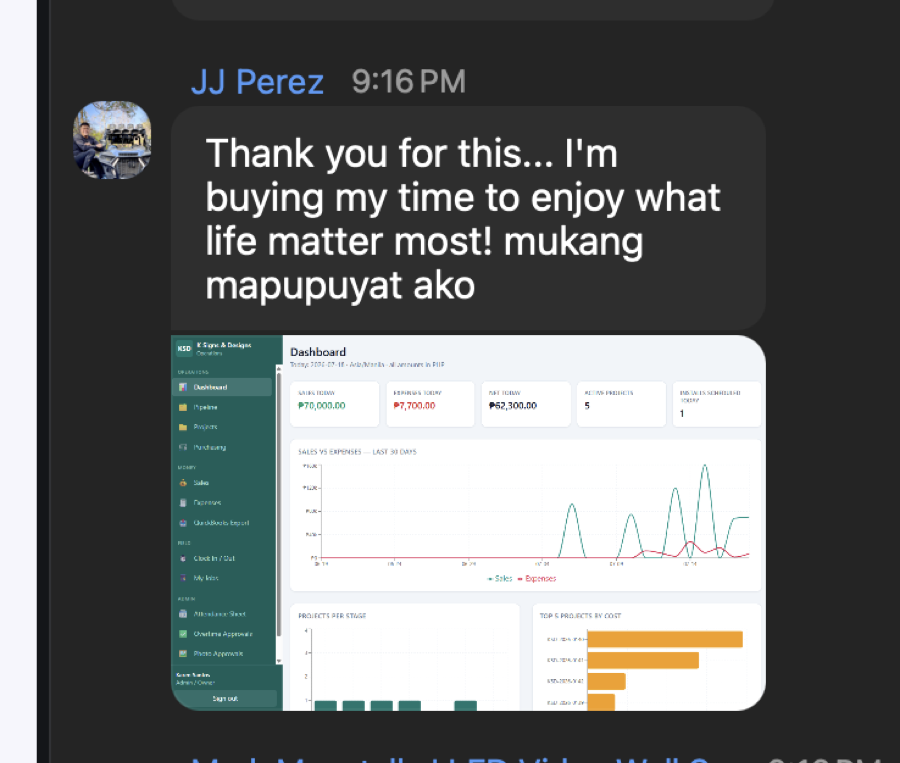
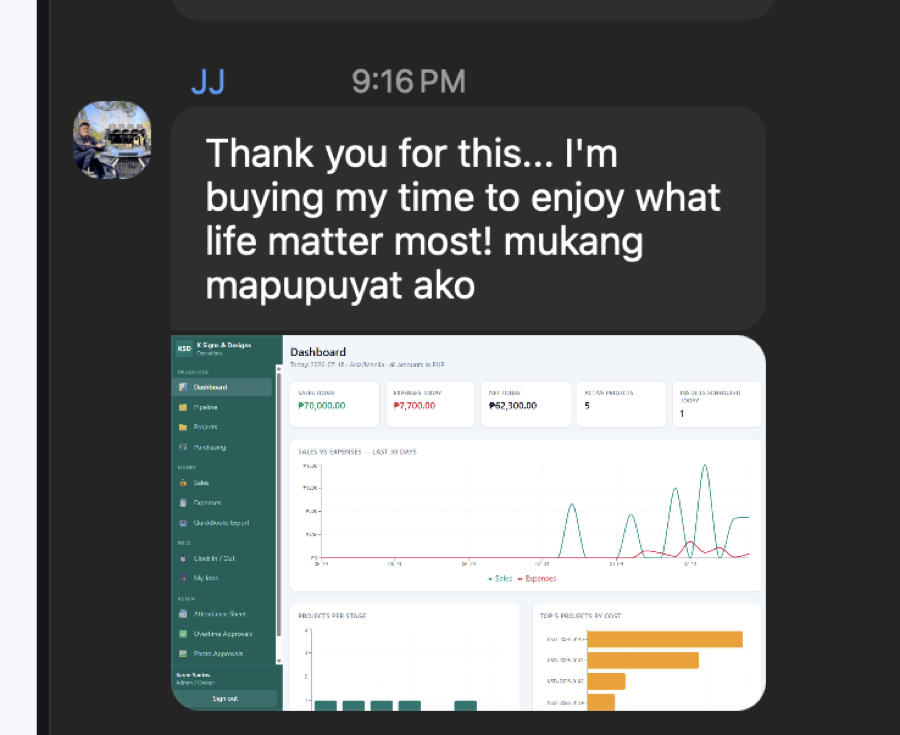
Make Variant D the site default; keep the original design as a variant
Per Kyle: the ₱500K-reframe page is now the main website. The old
homepage is NOT deleted — it stays fully intact as the rollback path:
- app/page.tsx fallback variant is now 'd' (one-line revert back to
  'control' restores the old site); ?preview=control still serves it
- B/C test dials keep working (carve test bands out of the D default);
  the D dial is retired and its beacon removed so default traffic
  doesn't double-log page_views
- HomeSplitCard restyled: D marked "site default", original marked
  "rollback / preview-only", D input dropped
- Default metadata/OG now message-match the D hero

Also per Kyle:
- Sample-card annotation: "Traditional Devs charge minimum ₱500K+ for a
  system like this..."
- Proof-wall testimonials: last names covered in the images (Perez,
  Barrientos incl. the form-placeholder repeat, Buenavista; proof-1's
  cut-off name strip cropped off). proof-2/3/5 were first-name only.

diff --git a/components/HomeSplitCard.tsx b/components/HomeSplitCard.tsx
@@ -2,18 +2,18 @@
 
 /**
  * Homepage split-test control (GHL-style) — shown on the webinar funnel's
- * admin page. FOUR variants:
- *   - CONTROL: the live homepage (legacy "₱100K/month outcome" hero)
- *   - VARIATION B: conversion-first redesign (bento grids, terminal, sticky CTA)
- *   - VARIATION C: competition-killer informed by the aibuilderssummit.live
- *     audit (outcome-first hero, itemized bonus stack, sharpened apps moat)
- *   - VARIATION D: ₱500K-quote hero reframe for the ₱1,997 price (above the
- *     fold only; below the fold = control)
+ * admin page. Since 2026-07-24 VARIATION D (₱500K-quote reframe) IS THE SITE
+ * DEFAULT; everyone not carved into a test band sees D:
+ *   - VARIATION D: the live homepage (no dial needed — it's the default)
+ *   - ORIGINAL: the previous homepage ("₱100K/month outcome" hero), kept
+ *     intact for rollback — preview via ?preview=control; reverting the whole
+ *     site = one-line fallback change in app/page.tsx
+ *   - VARIATION B / C: test variants, still dialable
  *
- * Three traffic dials, saved to funnel config:
+ * Two traffic dials, saved to funnel config:
  *   homeVariantPct  → Variation B
  *   homeVariantCPct → Variation C
- *   homeVariantDPct → Variation D
+ * (homeVariantDPct is retired — the page router ignores it.)
  *
  * Bucketing is additive (raising a later dial doesn't reshuffle anyone
  * already bucketed earlier). Combined cap of 100; warn past it.
@@ -42,25 +42,22 @@ export function HomeSplitCard({
 }) {
   const initialB = clampPct(Number(funnel.config.homeVariantPct) || 0);
   const initialC = clampPct(Number(funnel.config.homeVariantCPct) || 0);
-  const initialD = clampPct(Number(funnel.config.homeVariantDPct) || 0);
   const [pctB, setPctB] = useState(String(initialB));
   const [pctC, setPctC] = useState(String(initialC));
-  const [pctD, setPctD] = useState(String(initialD));
   const [saved, setSaved] = useState(false);
   const [pending, startTransition] = useTransition();
 
   const nB = clampPct(Number(pctB));
   const nC = clampPct(Number(pctC));
-  const nD = clampPct(Number(pctD));
-  const sum = nB + nC + nD;
+  const sum = nB + nC;
   const overCap = sum > 100;
-  const nControl = Math.max(0, 100 - Math.min(100, sum));
-  const live = nB > 0 || nC > 0 || nD > 0;
+  const nDefault = Math.max(0, 100 - Math.min(100, sum));
+  const live = nB > 0 || nC > 0;
 
   function save() {
     startTransition(async () => {
       await onSave(funnel.id, {
-        config: { ...funnel.config, homeVariantPct: nB, homeVariantCPct: nC, homeVariantDPct: nD },
+        config: { ...funnel.config, homeVariantPct: nB, homeVariantCPct: nC },
       });
       setSaved(true);
       setTimeout(() => setSaved(false), 1800);
@@ -78,27 +75,23 @@ export function HomeSplitCard({
               : 'border-slate-200 bg-slate-100 text-slate-500'
           }`}
         >
-          {live ? `Running · B ${nB}% · C ${nC}% · D ${nD}% · Control ${nControl}%` : 'Off · 100% control'}
+          {live ? `Testing · B ${nB}% · C ${nC}% · D (default) ${nDefault}%` : 'Off · 100% Variation D (site default)'}
         </span>
       </div>
 
       <div className="grid gap-3 sm:grid-cols-2 lg:grid-cols-4">
-        <div className="rounded-xl border border-slate-200 bg-slate-50/50 p-4">
-          <div className="text-[11px] font-semibold uppercase tracking-wider text-slate-500">
-            🏁 Control
+        <div className="rounded-xl border border-amber-300 bg-amber-50/60 p-4">
+          <div className="text-[11px] font-semibold uppercase tracking-wider text-amber-700">
+            🔨 Variation D — site default
           </div>
           <div className="mt-1 text-sm text-slate-700">
-            Current homepage (₱100K/month outcome hero)
+            ₱500K-quote reframe — build-it-yourself hero, clickable sample app, ₱1,997 CTA
           </div>
           <div className="mt-2 flex items-baseline justify-between">
-            <a
-              href="/?preview=control"
-              target="_blank"
-              className="text-xs text-cyan-600 hover:underline"
-            >
-              Preview ↗
+            <a href="/" target="_blank" className="text-xs text-amber-600 hover:underline">
+              View live ↗
             </a>
-            <span className="text-lg font-semibold text-slate-900">{nControl}%</span>
+            <span className="text-lg font-semibold text-slate-900">{nDefault}%</span>
           </div>
         </div>
         <div className="rounded-xl border border-cyan-200 bg-cyan-50/40 p-4">
@@ -138,22 +131,22 @@ export function HomeSplitCard({
             <span className="text-lg font-semibold text-slate-900">{nC}%</span>
           </div>
         </div>
-        <div className="rounded-xl border border-amber-200 bg-amber-50/40 p-4">
-          <div className="text-[11px] font-semibold uppercase tracking-wider text-amber-700">
-            🔨 Variation D
+        <div className="rounded-xl border border-slate-200 bg-slate-50/50 p-4">
+          <div className="text-[11px] font-semibold uppercase tracking-wider text-slate-500">
+            🏁 Original (rollback)
           </div>
           <div className="mt-1 text-sm text-slate-700">
-            ₱500K-quote reframe — build-it-yourself hero, clickable sample app, ₱1,997 CTA
+            Previous homepage (₱100K/month outcome hero) — kept intact in case we need to revert
           </div>
           <div className="mt-2 flex items-baseline justify-between">
             <a
-              href="/?preview=d"
+              href="/?preview=control"
               target="_blank"
-              className="text-xs text-amber-600 hover:underline"
+              className="text-xs text-cyan-600 hover:underline"
             >
               Preview ↗
             </a>
-            <span className="text-lg font-semibold text-slate-900">{nD}%</span>
+            <span className="text-lg font-semibold text-slate-400">preview-only</span>
           </div>
         </div>
       </div>
@@ -177,15 +170,6 @@ export function HomeSplitCard({
             onChange={(e) => setPctC(e.target.value)}
           />
         </div>
-        <div>
-          <label className="label">Variation D traffic %</label>
-          <input
-            className="input w-28"
-            inputMode="numeric"
-            value={pctD}
-            onChange={(e) => setPctD(e.target.value)}
-          />
-        </div>
         <button
           onClick={save}
           disabled={pending || overCap}
@@ -195,17 +179,18 @@ export function HomeSplitCard({
         </button>
         {overCap && (
           <span className="text-[11px] font-medium text-rose-600">
-            B + C + D = {sum}% &gt; 100. Lower one before saving.
+            B + C = {sum}% &gt; 100. Lower one before saving.
           </span>
         )}
       </div>
       <p className="text-[11px] leading-relaxed text-slate-400">
-        Visitors are bucketed once (sticky cookie) — raising a % adds new people to that variation
-        without reshuffling anyone. Set both to 0 to pause and serve 100% control. Variation views
-        log as <code className="rounded bg-slate-100 px-1">/__ab/home-b</code>,{' '}
-        <code className="rounded bg-slate-100 px-1">/__ab/home-c</code> and{' '}
-        <code className="rounded bg-slate-100 px-1">/__ab/home-d</code> page-views so you can
-        compare traffic.
+        Variation D is the site default — everyone not carved into a B/C test band sees it, no
+        dial needed. Visitors are bucketed once (sticky cookie) — raising a % adds new people to
+        that variation without reshuffling anyone. Set both to 0 to serve 100% Variation D. Test
+        views log as <code className="rounded bg-slate-100 px-1">/__ab/home-b</code> and{' '}
+        <code className="rounded bg-slate-100 px-1">/__ab/home-c</code> page-views; the old
+        design stays preview-only at{' '}
+        <code className="rounded bg-slate-100 px-1">/?preview=control</code>.
       </p>
     </section>
   );

diff --git a/app/page.tsx b/app/page.tsx
@@ -15,26 +15,22 @@ import { getFunnels, getSettings, getUpcomingCheckoutSessions } from '@/lib/db';
 export const dynamic = 'force-dynamic';
 
 /**
- * Homepage split test (GHL-style). Four variants:
- *   - control (components/OptInPage.tsx) — the original
+ * Homepage variants. Since 2026-07-24, VARIANT D IS THE SITE DEFAULT — the
+ * ₱500K-quote reframe (components/variant-d/OptInPageD.tsx) is what every
+ * visitor sees at "/". The other designs are kept intact as variants:
+ *   - control (components/OptInPage.tsx) — the ORIGINAL design, preserved for
+ *     rollback. View via ?preview=control. To revert the whole site to it,
+ *     change the `variant` fallback below from 'd' back to 'control'.
  *   - b (components/variant-b/OptInPageB.tsx) — conversion-first rebuild
- *   - c (components/variant-c/OptInPageC.tsx) — competition-killer informed
- *     by the aibuilderssummit.live audit (outcome-first hero, itemized
- *     bonus, sharpened apps moat)
- *   - d (components/variant-d/OptInPageD.tsx) — ₱500K-quote hero reframe for
- *     the ₱1,997 price point (above-the-fold only; below the fold = control)
+ *   - c (components/variant-c/OptInPageC.tsx) — competition-killer
  *
  * Assignment:
  *   - middleware gives every visitor a sticky random roll 0-99 (bl_ab_roll);
- *   - the webinar funnel exposes THREE traffic dials in admin → Funnels:
- *       homeVariantPct  → traffic % for variant B
- *       homeVariantCPct → traffic % for variant C
- *       homeVariantDPct → traffic % for variant D
- *   - bucketing: roll < pctB → B, else roll < pctB+pctC → C, else
- *     roll < pctB+pctC+pctD → D, else control. Additive so raising a later
- *     dial doesn't reshuffle anyone already bucketed into an earlier variant.
+ *   - admin → Funnels dials homeVariantPct (B) / homeVariantCPct (C) can
+ *     still carve test traffic: roll < pctB → B, else roll < pctB+pctC → C,
+ *     else D (the default). homeVariantDPct is now inert — D needs no dial.
  *   - ?preview=b / ?preview=c / ?preview=d / ?preview=control force a variant
- *     for preview (no cookie change, works even at 0% live traffic).
+ *     for preview (no cookie change).
  */
 type HomeVariant = 'control' | 'b' | 'c' | 'd';
 
@@ -43,31 +39,26 @@ type HomeVariant = 'control' | 'b' | 'c' | 'd';
 async function resolveVariant(preview?: string): Promise<HomeVariant> {
   let pctB = 0;
   let pctC = 0;
-  let pctD = 0;
   try {
     const funnels = await getFunnels();
     const cfg = funnels.find((f) => f.slug === 'webinar')?.config as
-      | { homeVariantPct?: number; homeVariantCPct?: number; homeVariantDPct?: number }
+      | { homeVariantPct?: number; homeVariantCPct?: number }
       | undefined;
     const clamp = (v: unknown) => Math.min(100, Math.max(0, Number(v) || 0));
     pctB = clamp(cfg?.homeVariantPct);
     pctC = clamp(cfg?.homeVariantCPct);
-    pctD = clamp(cfg?.homeVariantDPct);
   } catch {
     pctB = 0;
-    pctC = 0;
-    pctD = 0; // config unreadable → everyone sees control (fail-safe)
+    pctC = 0; // config unreadable → everyone sees the default (D)
   }
 
   // Cap the combined bands at 100 to keep behavior sane if admin overlaps sliders.
   const cBound = Math.min(100, pctB + pctC);
-  const dBound = Math.min(100, pctB + pctC + pctD);
   const roll = Number(cookies().get('bl_ab_roll')?.value ?? NaN);
-  let variant: HomeVariant = 'control';
+  let variant: HomeVariant = 'd'; // ← site default; set to 'control' to revert
   if (Number.isFinite(roll)) {
     if (roll < pctB) variant = 'b';
     else if (roll < cBound) variant = 'c';
-    else if (roll < dBound) variant = 'd';
   }
   if (preview === 'b') variant = 'b';
   if (preview === 'c') variant = 'c';
@@ -147,10 +138,11 @@ export default async function Page({
   return (
     <>
       {page}
-      {/* Log variant views (skip previews so admin peeks don't pollute data). */}
+      {/* Log variant views (skip previews so admin peeks don't pollute data).
+          D is the site default now — no beacon for it, or every homepage view
+          would double-log a page_views row; plain homepage traffic counts it. */}
       {variant === 'b' && !preview && <AbBeacon path="/__ab/home-b" />}
       {variant === 'c' && !preview && <AbBeacon path="/__ab/home-c" />}
-      {variant === 'd' && !preview && <AbBeacon path="/__ab/home-d" />}
       <ExitIntentModal />
     </>
   );

diff --git a/components/variant-d/OptInPageD.tsx b/components/variant-d/OptInPageD.tsx
@@ -202,7 +202,7 @@ function CardAnnotation() {
         <path d="M25 6h7v7" />
       </svg>
       <p className="text-[12.5px] leading-snug text-ink-200 sm:text-[13px]">
-        Dev shops quote ₱500K+ for a system like this.
+        Traditional Devs charge minimum ₱500K+ for a system like this...
         <br />
         <span className="text-cyan-300">Pindutin mo — live siya, totoo.</span>
       </p>
